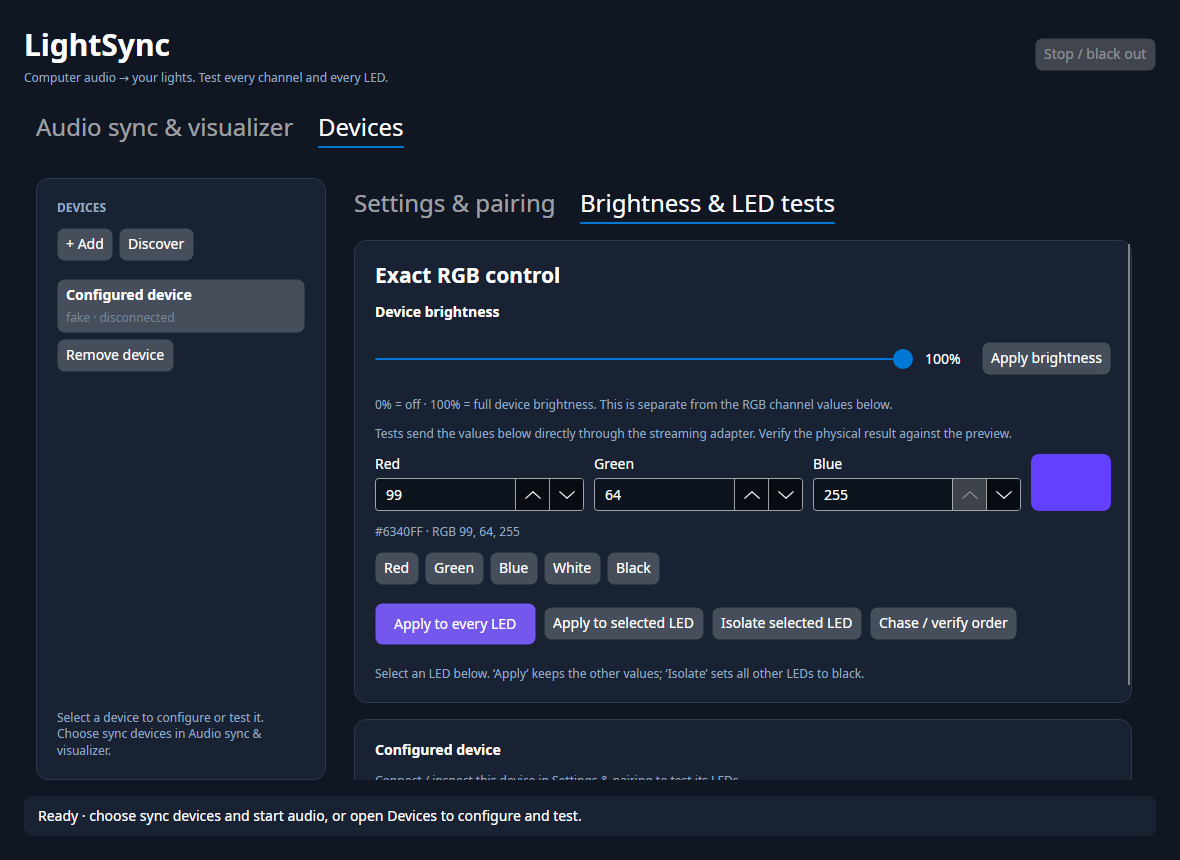
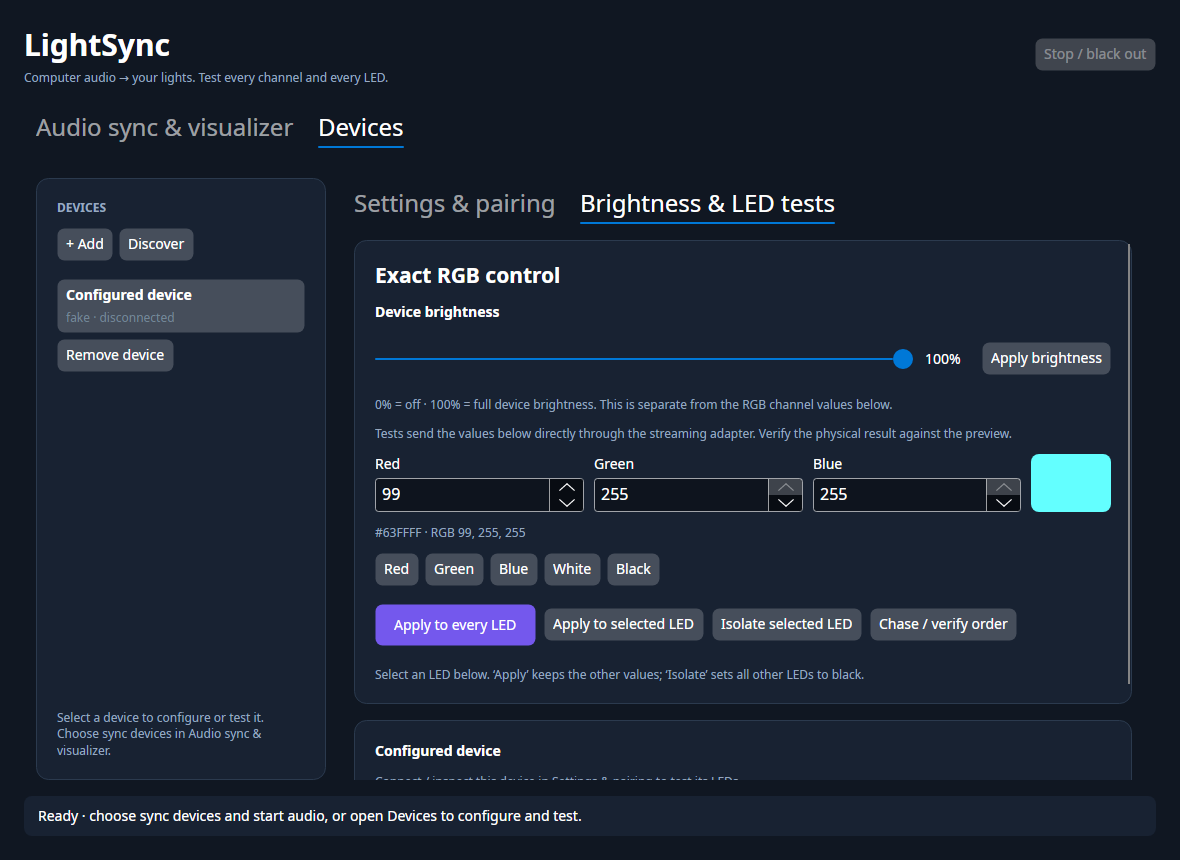
Make numeric controls readable with compact spinners

diff --git a/docs/DESKTOP.md b/docs/DESKTOP.md
@@ -124,6 +124,9 @@ and the silence threshold prevents a low noise floor from keeping LEDs lit.
 Volume and bass use the colour selected under **Colour · volume and bass** in
 the audio section. Changing a colour in Devices only affects LED tests. Audio
 colour loads from and saves to `audio.color`; existing saved colours carry over.
+Numeric fields use compact, vertically stacked arrow buttons and larger text so
+three-digit RGB values remain readable at the minimum window width. You can type
+an exact value directly or use the arrows to adjust it.
 All checked devices share one capture and the same response across their full
 lengths. Response, gain, brightness, smoothing, gate, rainbow motion and audio
 colour controls apply live. Settings are saved on start, stop, device sync membership changes and window
@@ -197,6 +200,11 @@ and test colours, removal persisted to `devices.json`, and all 32 rendered bar
 colours matching the reported LED frame and output strip while switching through
 all four response modes. These checks use a simulated profile; screenshots show
 the actual rendered interface.
+
+Numeric field layout was checked at 940 × 760 and 1180 × 860: `255` fits in all
+six audio/test RGB fields, and the silence threshold displays `0.005` in full.
+These UI checks run in a temporary headless review harness, separate from the
+checked-in unit test suite.
 
 Automated tests cover audio frequency separation, stereo phase
 cancellation, silence, live settings, rainbow motion independent of gain, exact
